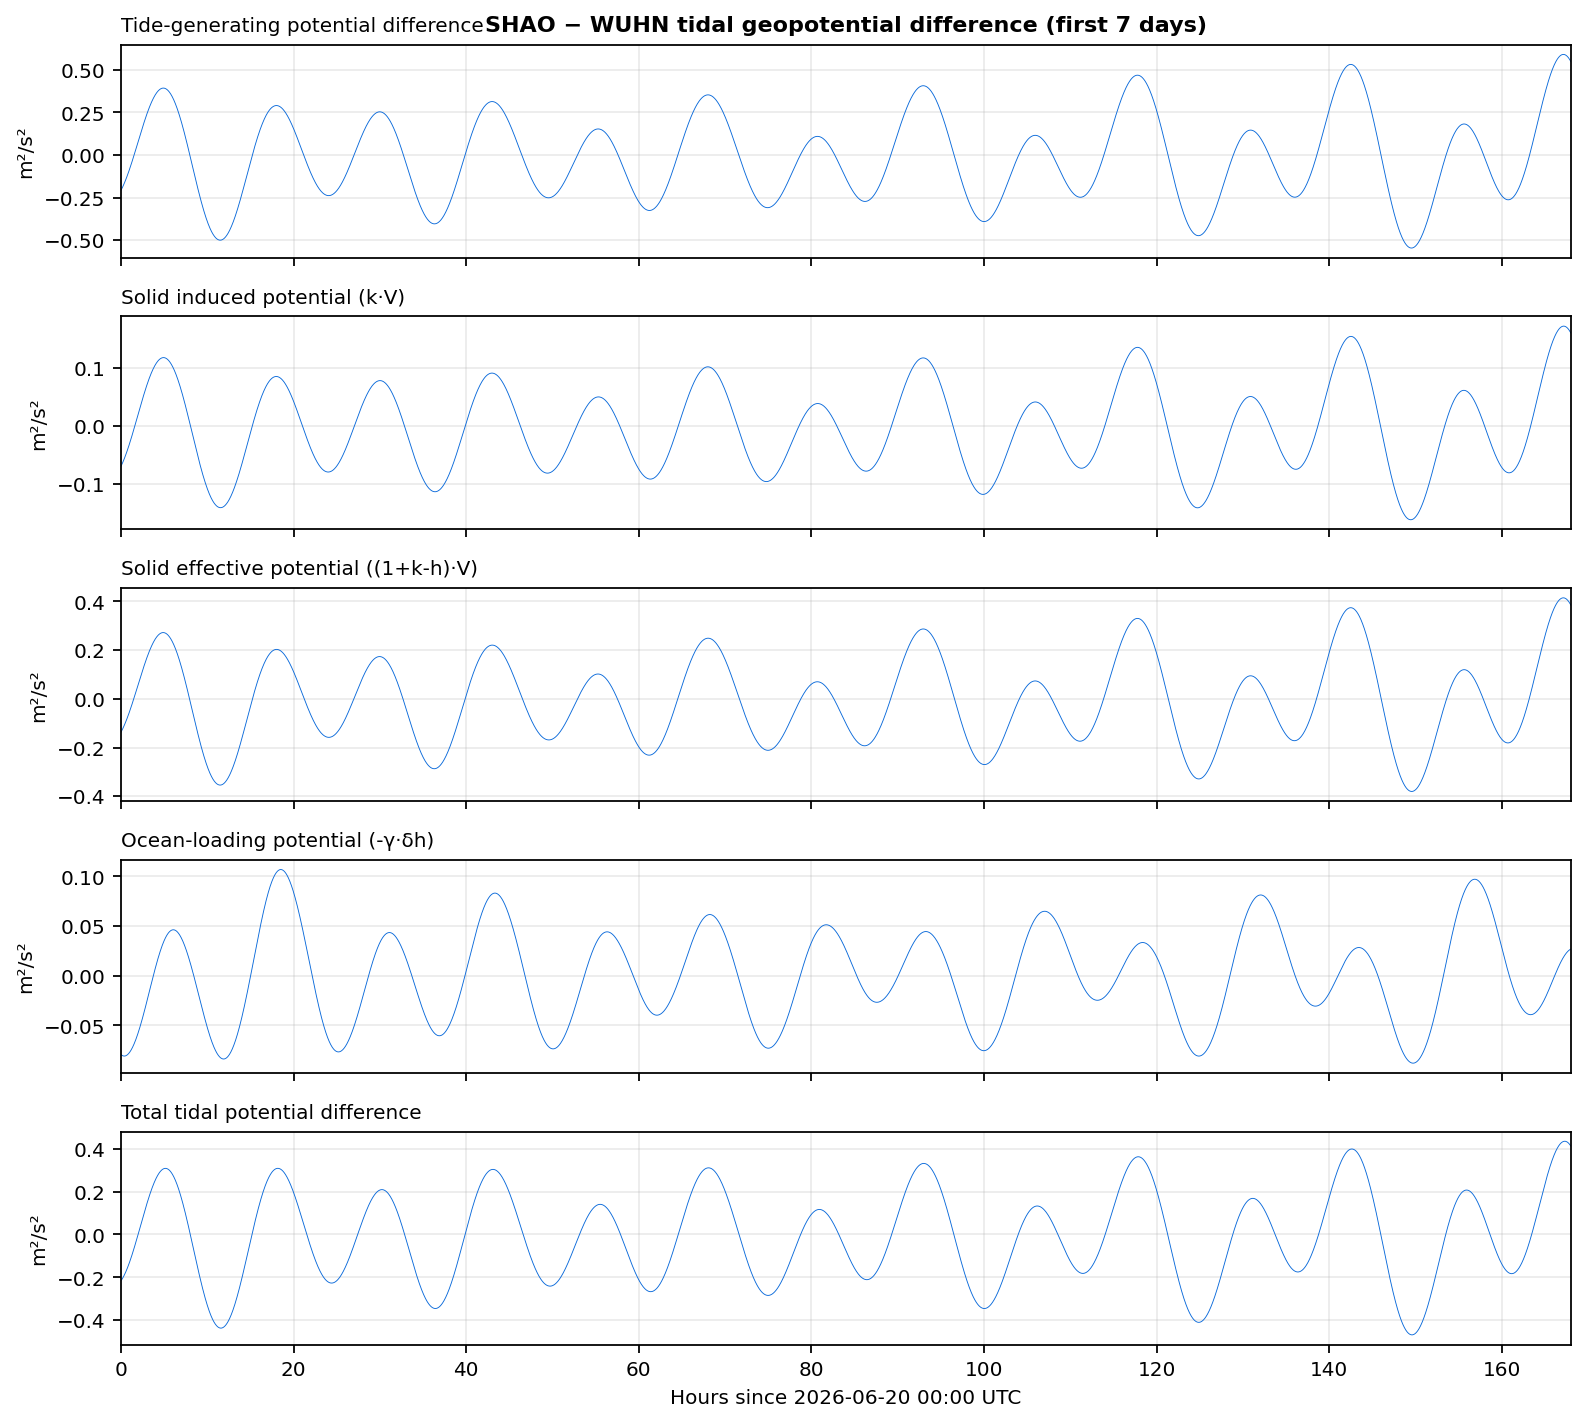
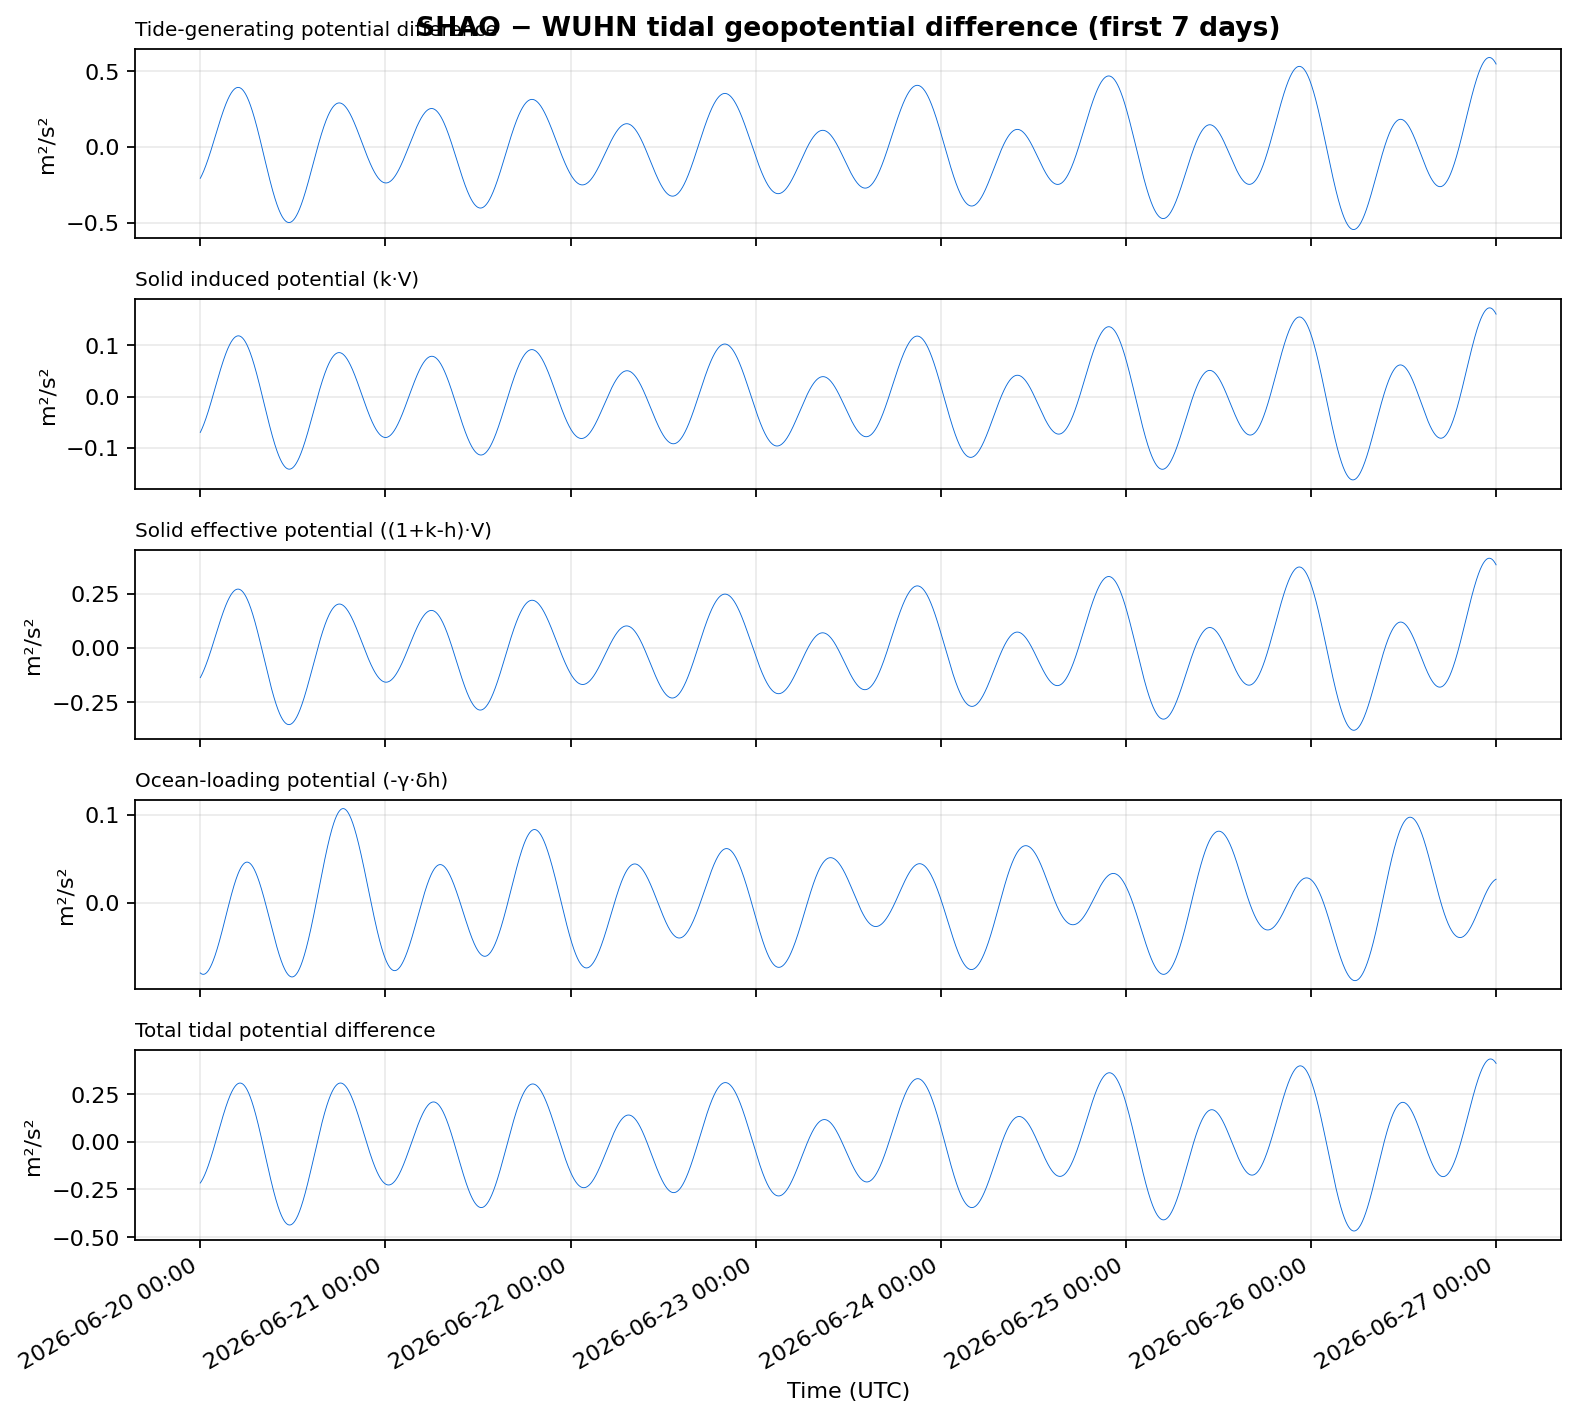
Regenerate report figures with datetime x-axis
Ultraworked with [Sisyphus](https://github.com/code-yeongyu/oh-my-openagent)

diff --git a/report/make_figures.py b/report/make_figures.py
@@ -1,0 +1,157 @@
+#!/usr/bin/env python3
+"""Generate the report figures with datetime x-axes.
+
+Reads results/wuhan_shanghai_20260620_20260826.csv and writes
+report/fig1_timeseries_7d.png, report/fig2_spectrum.png and
+report/fig3_full_68d.png. Time-domain x-axes are real datetimes formatted
+as ``YYYY-MM-DD HH:MM`` (UTC).
+"""
+
+from __future__ import annotations
+
+import csv
+from pathlib import Path
+
+import matplotlib
+
+matplotlib.use("Agg")
+import matplotlib.dates as mdates
+import matplotlib.pyplot as plt
+import numpy as np
+
+CSV_PATH = Path(__file__).resolve().parents[1] / "results" / "wuhan_shanghai_20260620_20260826.csv"
+OUT_DIR = Path(__file__).resolve().parent
+
+# Dominant tidal constituents (frequency in Hz) for the spectrum annotations.
+TIDES = {
+    "M2": 1.405189e-4,
+    "S2": 1.454441e-4,
+    "N2": 1.378797e-4,
+    "K1": 7.292116e-5,
+    "O1": 6.759774e-5,
+    "P1": 7.252295e-5,
+}
+
+
+def load() -> tuple[np.ndarray, dict[str, np.ndarray]]:
+    rows = list(csv.DictReader(open(CSV_PATH)))
+    timestamps = np.array(
+        [r["timestamp_utc"].replace("Z", "") for r in rows], dtype="datetime64[s]"
+    )
+    columns = (
+        "tide_generating_delta_m2_s2",
+        "solid_induced_delta_m2_s2",
+        "solid_effective_delta_m2_s2",
+        "ocean_loading_delta_m2_s2",
+        "total_tidal_delta_m2_s2",
+    )
+    data = {c: np.array([float(r[c]) for r in rows]) for c in columns}
+    return timestamps, data
+
+
+def _style_time_axis(ax):
+    ax.xaxis.set_major_formatter(mdates.DateFormatter("%Y-%m-%d %H:%M"))
+    ax.xaxis.set_major_locator(mdates.AutoDateLocator(minticks=4, maxticks=8))
+    plt.setp(ax.get_xticklabels(), rotation=30, ha="right")
+
+
+def fig1(timestamps: np.ndarray, data: dict[str, np.ndarray]) -> None:
+    mask = timestamps < timestamps[0] + np.timedelta64(7, "D")
+    panels = (
+        ("tide_generating_delta_m2_s2", "Tide-generating potential difference"),
+        ("solid_induced_delta_m2_s2", "Solid induced potential (k·V)"),
+        ("solid_effective_delta_m2_s2", "Solid effective potential ((1+k-h)·V)"),
+        ("ocean_loading_delta_m2_s2", "Ocean-loading potential (-γ·δh)"),
+        ("total_tidal_delta_m2_s2", "Total tidal potential difference"),
+    )
+    fig, axes = plt.subplots(5, 1, figsize=(10, 9), sharex=True)
+    for ax, (column, label) in zip(axes, panels):
+        ax.plot(timestamps[mask], data[column][mask], lw=0.4, color="#0969da")
+        ax.set_ylabel("m²/s²")
+        ax.set_title(label, loc="left", fontsize=9)
+        ax.grid(alpha=0.25)
+    _style_time_axis(axes[-1])
+    axes[-1].set_xlabel("Time (UTC)")
+    axes[0].set_title(
+        "SHAO − WUHN tidal geopotential difference (first 7 days)", fontweight="bold"
+    )
+    fig.tight_layout()
+    fig.savefig(OUT_DIR / "fig1_timeseries_7d.png", dpi=160, bbox_inches="tight")
+    plt.close(fig)
+
+
+def fig2(data: dict[str, np.ndarray]) -> None:
+    dt = 60.0  # seconds, 1-minute sampling
+
+    def psd(y: np.ndarray) -> tuple[np.ndarray, np.ndarray]:
+        y = y - y.mean()
+        window = np.hanning(len(y))
+        power = np.abs(np.fft.rfft(y * window)) ** 2
+        freq = np.fft.rfftfreq(len(y), d=dt)
+        return freq, power
+
+    fig, ax = plt.subplots(figsize=(10, 4.5))
+    series = (
+        ("tide_generating_delta_m2_s2", "generating", "#888888"),
+        ("solid_effective_delta_m2_s2", "solid effective", "#0969da"),
+        ("ocean_loading_delta_m2_s2", "ocean loading", "#e07b00"),
+        ("total_tidal_delta_m2_s2", "total", "#d62728"),
+    )
+    for column, label, color in series:
+        freq, power = psd(data[column])
+        sel = freq < 5e-4
+        ax.semilogy(freq[sel], power[sel], lw=0.8, label=label, color=color, alpha=0.9)
+    for name, freq in TIDES.items():
+        ax.axvline(freq, color="gray", ls=":", lw=0.6, alpha=0.5)
+        ax.text(
+            freq, ax.get_ylim()[1] * 0.5, name, fontsize=7, rotation=90,
+            va="top", color="gray",
+        )
+    ax.set_xlabel("Frequency (Hz)")
+    ax.set_ylabel("Power (a.u.)")
+    ax.set_title("Spectrum of SHAO − WUHN tidal geopotential difference", fontweight="bold")
+    ax.legend(fontsize=8)
+    ax.grid(alpha=0.25, which="both")
+    fig.tight_layout()
+    fig.savefig(OUT_DIR / "fig2_spectrum.png", dpi=160, bbox_inches="tight")
+    plt.close(fig)
+
+
+def fig3(timestamps: np.ndarray, data: dict[str, np.ndarray]) -> None:
+    total = data["total_tidal_delta_m2_s2"]
+    days = len(total) // 1440
+    daily = total[: days * 1440].reshape(days, 1440)
+    day_starts = timestamps[: days * 1440 : 1440]
+
+    fig, ax = plt.subplots(figsize=(10, 3.5))
+    ax.plot(timestamps, total, lw=0.1, color="#0969da", alpha=0.7)
+    ax.fill_between(
+        day_starts, daily.min(axis=1), daily.max(axis=1),
+        alpha=0.25, color="#0969da", label="daily min–max",
+        step="mid",
+    )
+    ax.plot(
+        day_starts, daily.mean(axis=1), lw=1.2, color="#d62728", label="daily mean"
+    )
+    _style_time_axis(ax)
+    ax.set_xlabel("Time (UTC)")
+    ax.set_ylabel("m²/s²")
+    ax.set_title("Total tidal potential difference — full 68 days", fontweight="bold")
+    ax.legend(fontsize=8)
+    ax.grid(alpha=0.25)
+    fig.tight_layout()
+    fig.savefig(OUT_DIR / "fig3_full_68d.png", dpi=160, bbox_inches="tight")
+    plt.close(fig)
+
+
+def main() -> int:
+    timestamps, data = load()
+    fig1(timestamps, data)
+    fig2(data)
+    fig3(timestamps, data)
+    print("Wrote fig1_timeseries_7d.png, fig2_spectrum.png, fig3_full_68d.png")
+    return 0
+
+
+if __name__ == "__main__":
+    raise SystemExit(main())
